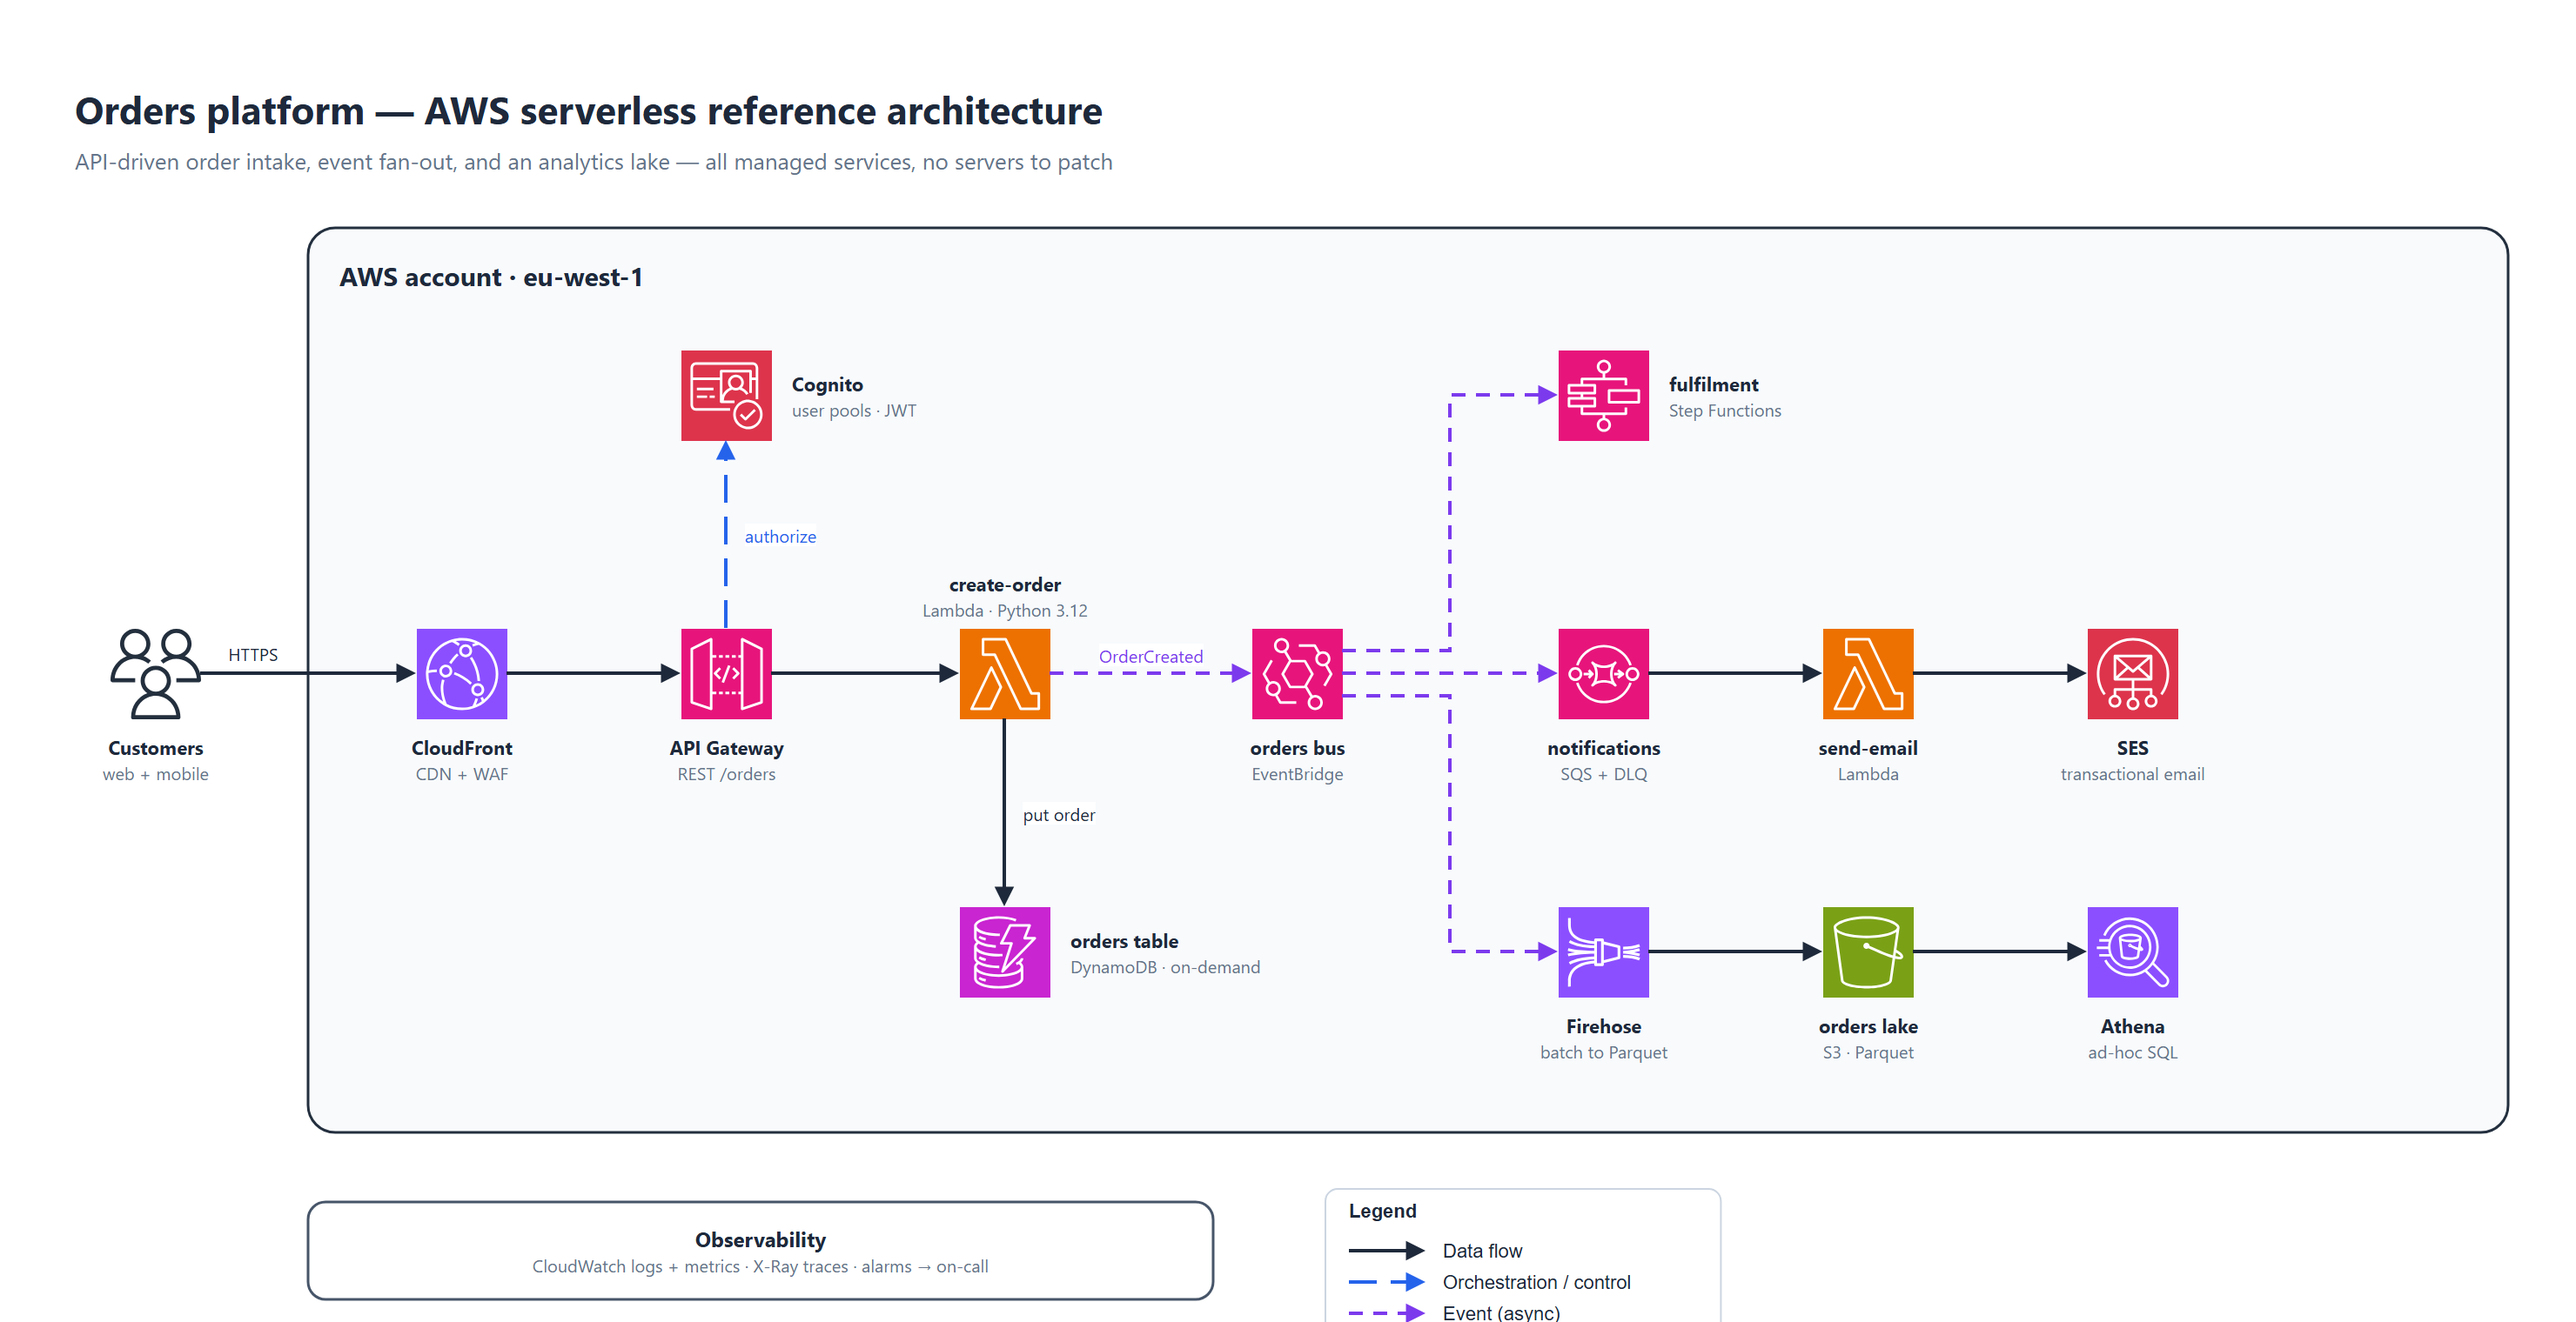
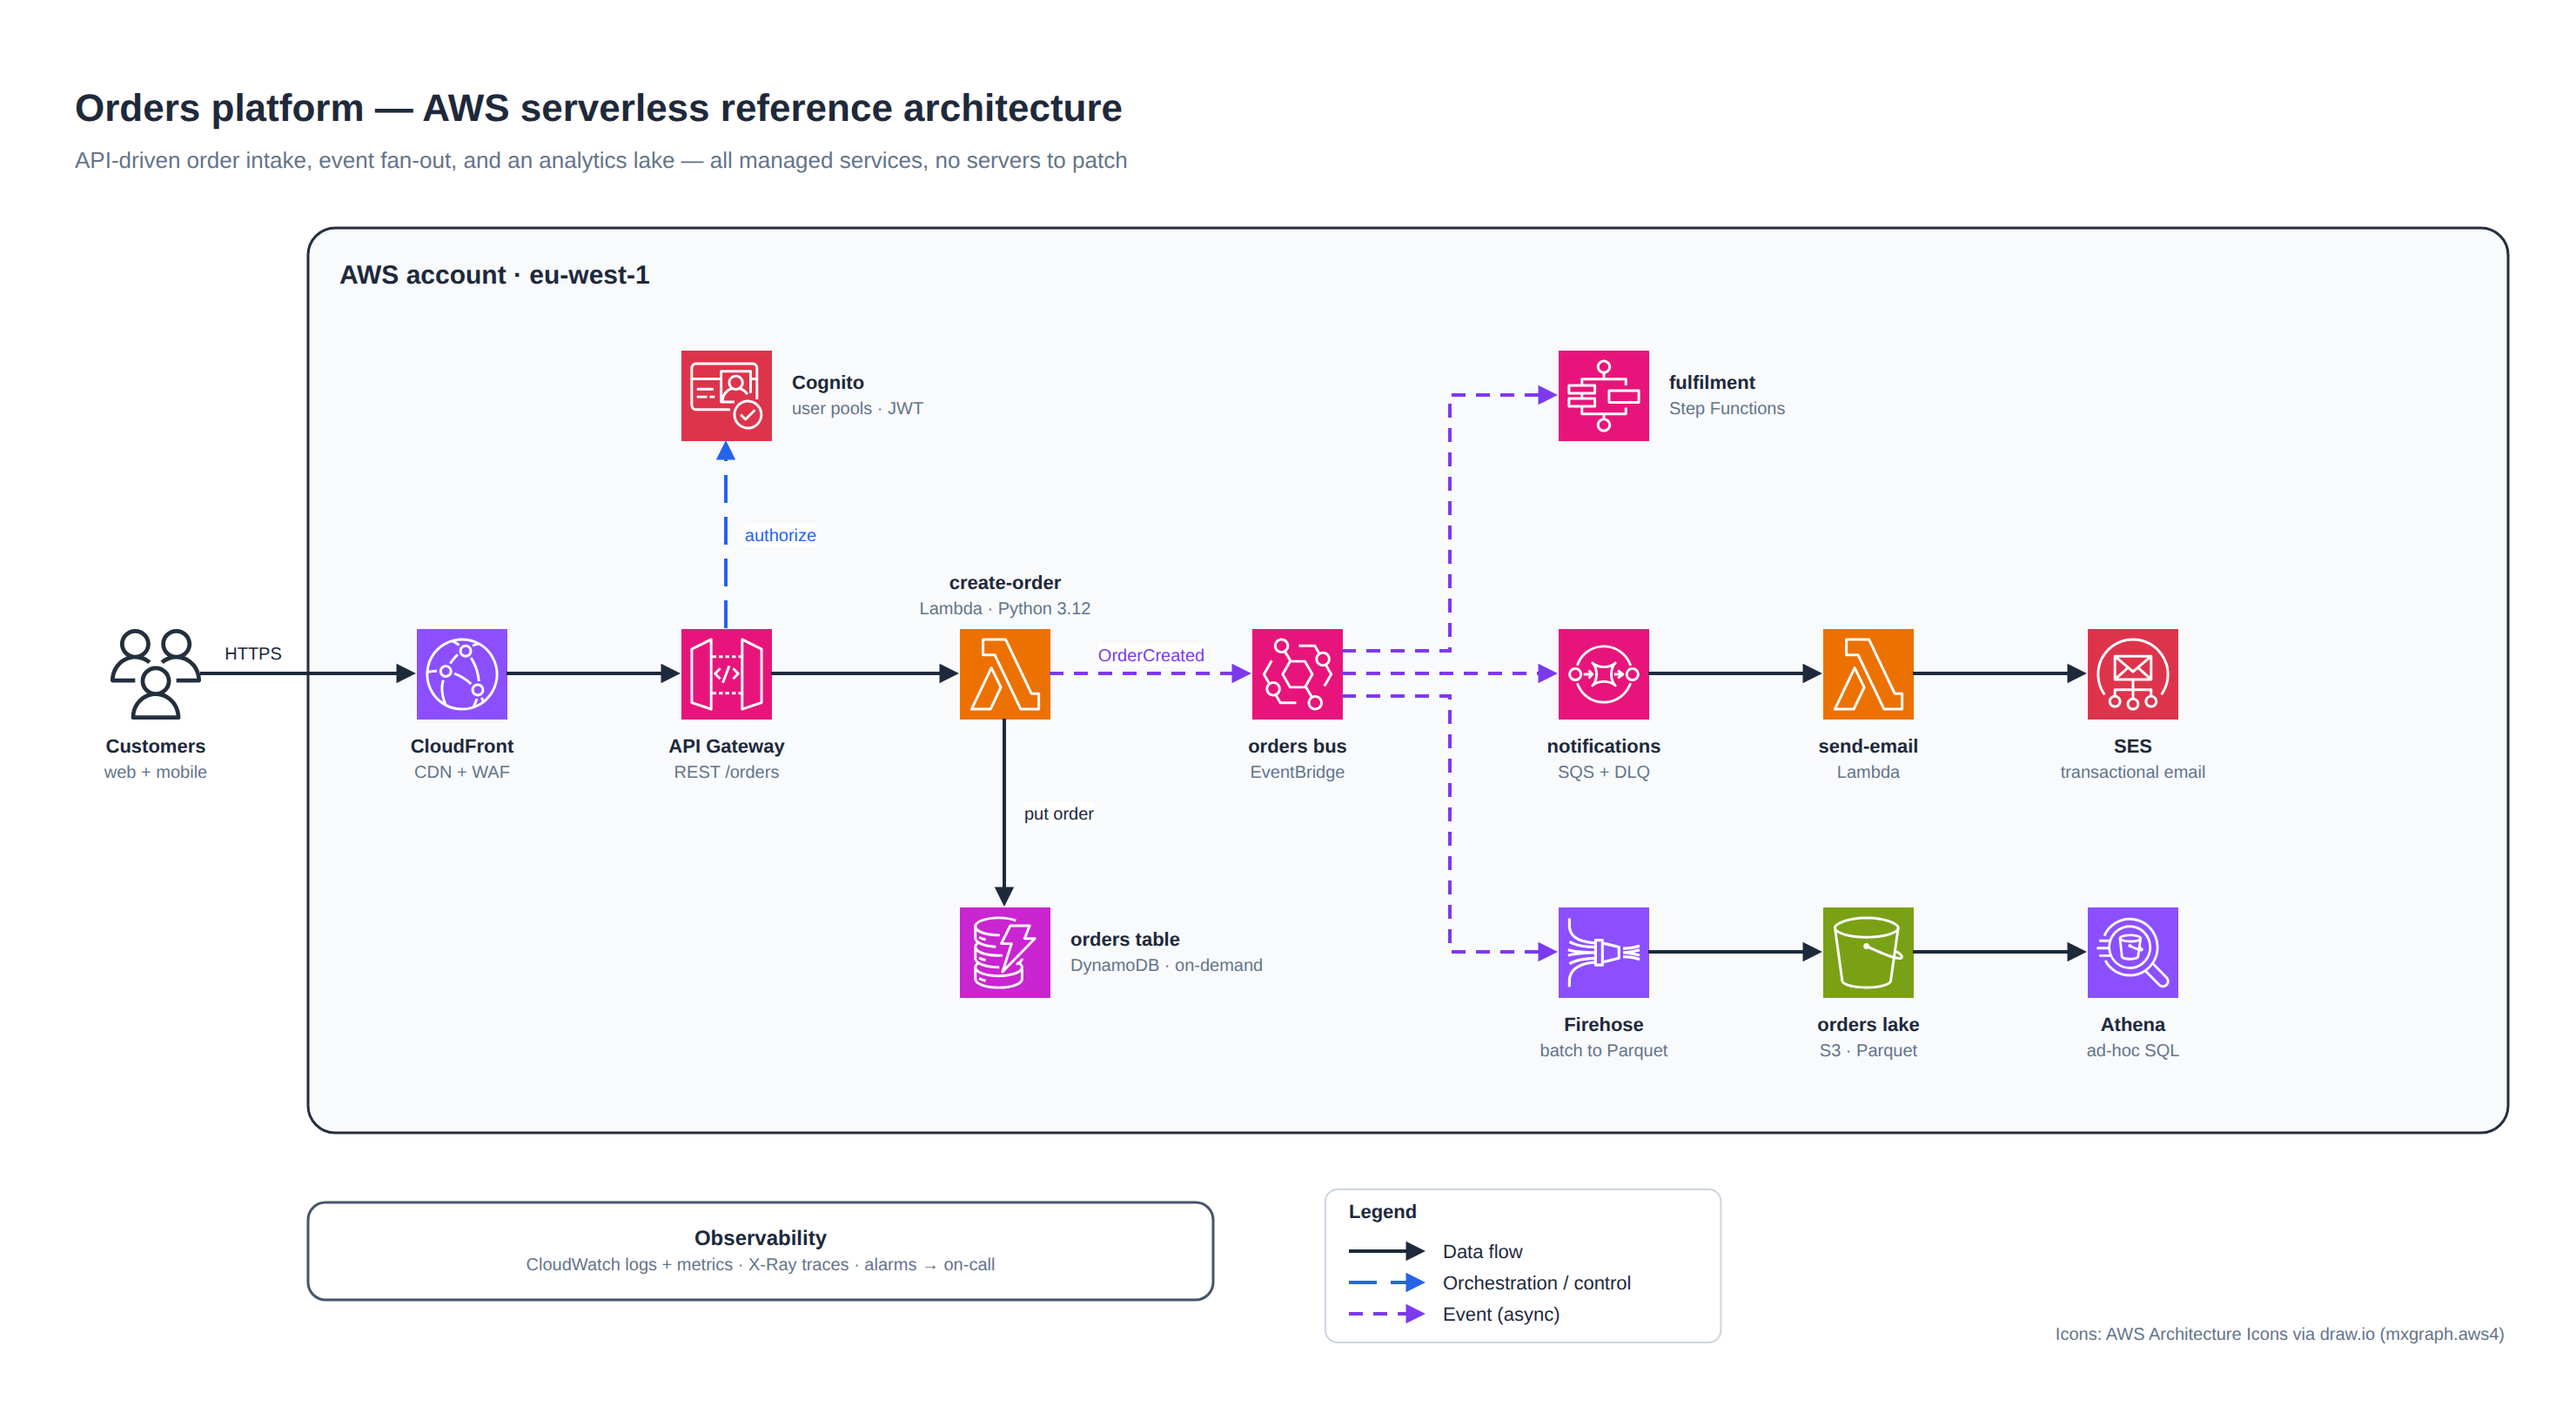
Rewrite README, add Kubernetes example, fix PNG rendering
- README: shorter pitch, quick start up front, extra install options folded
  away, AWS diagram as the hero image, accurate requirements
- New examples/kubernetes-app.yaml (GitOps web shop) and its gallery image,
  replacing the Fabric image in the gallery
- render.py: capture extra height so the draw.io viewer no longer crops the
  legend and credits off the bottom of PNGs
- archdiagram.py: write the full font stack to .drawio files so non-Windows
  systems fall back to sans-serif instead of serif
- Re-render aws-serverless.png with both fixes

diff --git a/skills/architecture-diagrams/scripts/render.py b/skills/architecture-diagrams/scripts/render.py
@@ -104,7 +104,9 @@ def render_drawio(src: Path, out: Path, scale: float, engine: str) -> None:
     with tempfile.TemporaryDirectory(prefix="archdiagram-page-") as tmp:
         page_file = Path(tmp) / "view.html"
         page_file.write_text(page, encoding="utf-8")
-        screenshot(page_file.as_uri(), out, w, h, scale, wait_ms=20000)
+        # The viewer draws the diagram ~24 px lower than its page origin; give it headroom so the
+        # bottom row (legend, credits) is not cropped.
+        screenshot(page_file.as_uri(), out, w, h + 48, scale, wait_ms=20000)
     print(f"rendered with draw.io viewer -> {out}")
 
 

diff --git a/skills/architecture-diagrams/scripts/archdiagram.py b/skills/architecture-diagrams/scripts/archdiagram.py
@@ -422,7 +422,7 @@ class Diagram:
     # ----------------------------------------------------------------------- draw.io
     def to_drawio(self) -> str:
         t = self.theme
-        font = t["font"].split(",")[0]
+        font = t["font"]  # full stack, so systems without the first font fall back to sans-serif, not serif
         common = f"html=1;whiteSpace=wrap;fontFamily={font};"
         # invisible, locked canvas frame: keeps margins when draw.io crops exports/viewers to content bounds
         cells = [f'<mxCell id="_canvas" value="" style="rounded=0;fillColor=none;strokeColor=none;locked=1;selectable=0;" '

diff --git a/README.md b/README.md
@@ -1,82 +1,100 @@
-# architecture-diagrams — an agent skill
+# Architecture Diagrams
 
-Teach your AI coding agent to draw **professional architecture diagrams with real vendor icons**: AWS, Azure,
-Google Cloud, Kubernetes, Microsoft Fabric / Power BI, and 3,000+ SaaS and open-source logos. Every diagram
-comes out as an **editable draw.io file** plus an **SVG or PNG** ready for your README, docs or slides.
+**An agent skill that makes your coding agent draw architecture diagrams you'd actually put in a README.**
 
-![Microsoft Fabric medallion lakehouse](docs/gallery/fabric-medallion.svg)
+Ask in plain words and get a clean diagram with real AWS, Azure, Google Cloud, Kubernetes, Microsoft Fabric
+and SaaS icons. You get an editable **draw.io** file plus an **SVG or PNG** ready for docs and slides.
 
-Most agents produce diagrams with guessed icon names, overlapping labels and spaghetti arrows. This skill
-fixes that with four things:
+Works with Claude Code, Codex, Cursor, GitHub Copilot, Gemini CLI, OpenCode, Windsurf and other agents
+that support skills.
 
-- **Real icons, never guessed.** It looks every icon up in a catalog, and an icon that doesn't exist fails
-  loudly. The catalogs include 952 AWS, 363 GCP and 78 Kubernetes icons, 1,746 draw.io SVGs (all Azure, IBM and
-  SAP icons among them), the Microsoft Fabric pack and Simple Icons brand logos.
-- **A planned layout.** One straight main flow, with control above and operations below, nested boundaries and
-  an 8 px grid. It follows written design rules, not an auto-layout guess.
-- **Automatic layout checks.** The checks catch overlaps, lines cutting through captions, labels on borders,
-  crossing lines, cramped arrowheads and text that doesn't fit.
-- **Render and look.** The agent renders a PNG and reviews it before handing the diagram over.
+![AWS serverless reference architecture, drawn by the skill](docs/gallery/aws-serverless.png)
 
-| AWS (native draw.io stencils) | Azure (embedded SVG icons) |
-|---|---|
-| ![AWS serverless](docs/gallery/aws-serverless.png) | ![Azure web app](docs/gallery/azure-web-app.svg) |
+## Why
 
-## Install
+Ask an agent for an architecture diagram without this skill and you usually get guessed icon names, labels
+on top of each other and arrows going everywhere. This skill gives it a method:
 
-### Claude Code
+- **Real icons, never guessed.** Every icon is looked up in a catalog, and a missing icon fails loudly
+  instead of turning into a blank box. 952 AWS, 363 GCP and 78 Kubernetes icons, all of Azure, IBM and SAP,
+  the Microsoft Fabric pack and 3,000+ brand logos.
+- **A planned layout.** One clear main flow, control above, operations below, nested boundaries, all on
+  an 8 px grid. The agent follows written design rules instead of hoping an auto-layout works out.
+- **Automatic checks.** Overlaps, lines through captions, labels on borders, crossing lines, cramped
+  arrowheads and text that doesn't fit are all caught before you see the diagram.
+- **The agent looks at it.** It renders a PNG and reviews it before handing the diagram over.
+
+## Quick start
+
+**Claude Code**
 
 ```bash
 claude plugin marketplace add manaf-dev/architect-diagrams
 claude plugin install architecture-diagrams@manaf-dev-skills
 ```
 
-Inside a Claude Code session, use `/plugin marketplace add manaf-dev/architect-diagrams`, then
-`/plugin install architecture-diagrams@manaf-dev-skills`. Claude Code v2.1.275 and later can do it in one step:
-`/plugin install architecture-diagrams --marketplace manaf-dev/architect-diagrams`.
-
-To update, run `claude plugin marketplace update manaf-dev-skills` and then
-`claude plugin update architecture-diagrams@manaf-dev-skills`.
-
-### Codex, Cursor, GitHub Copilot, Gemini CLI, OpenCode, Windsurf and others
+**Codex, Cursor, Copilot, Gemini CLI, OpenCode, Windsurf and others**
 
 ```bash
-npx skills add manaf-dev/architect-diagrams          # choose agents interactively
-npx skills add manaf-dev/architect-diagrams -g       # install for all your projects
-npx skills add manaf-dev/architect-diagrams -a codex # target one agent
+npx skills add manaf-dev/architect-diagrams
 ```
 
-### claude.ai / Claude desktop
-
-Go to **Customize → Plugins → Add → Add marketplace** and enter `manaf-dev/architect-diagrams`. The skill's
-guidance works there too. Its scripts need an agent that can run Python, such as Claude Code or the agents above.
-
-### Manual
-
-Copy `skills/architecture-diagrams/` into your agent's skills folder, for example `~/.claude/skills/` for
-Claude Code or `~/.agents/skills/` for Codex.
-
-## Use
-
-Ask in plain words. The skill triggers on architecture-diagram requests:
+Then ask:
 
 > "Draw the architecture of this repo for the README, with real Azure icons."
+
+<details>
+<summary>More install options</summary>
+
+**Inside a Claude Code session:** `/plugin marketplace add manaf-dev/architect-diagrams`, then
+`/plugin install architecture-diagrams@manaf-dev-skills`. Claude Code v2.1.275 and later can do both in one
+step: `/plugin install architecture-diagrams --marketplace manaf-dev/architect-diagrams`.
+
+**Update in Claude Code:** `claude plugin marketplace update manaf-dev-skills`, then
+`claude plugin update architecture-diagrams@manaf-dev-skills`.
+
+**`npx skills` options:** add `-g` to install for all your projects, or `-a codex` to target one agent.
+
+**claude.ai / Claude desktop:** go to **Customize → Plugins → Add → Add marketplace** and enter
+`manaf-dev/architect-diagrams`. The design guidance works there, but the scripts need an agent that can run
+Python, such as Claude Code.
+
+**Manual:** copy `skills/architecture-diagrams/` into your agent's skills folder, for example
+`~/.claude/skills/` for Claude Code or `~/.agents/skills/` for Codex.
+
+</details>
+
+## Gallery
+
+| Kubernetes with GitOps (native stencils + brand logos) | Azure web app (embedded SVG icons) |
+|---|---|
+| ![Kubernetes web shop with GitOps](docs/gallery/kubernetes-app.png) | ![Azure web app](docs/gallery/azure-web-app.svg) |
+
+The specs behind every gallery image are in
+[`skills/architecture-diagrams/examples/`](skills/architecture-diagrams/examples/).
+
+## What to ask for
+
+The skill triggers on any architecture-diagram request. Some examples:
+
+> "Make a reference architecture: API Gateway → Lambda → DynamoDB, with EventBridge fan-out to SQS and Step Functions."
 >
-> "Make a reference architecture: API Gateway → Lambda → DynamoDB, EventBridge fan-out to SQS and Step Functions."
+> "Diagram our data platform: Fabric notebooks, a pipeline, a Direct Lake semantic model and a Power BI report."
 >
-> "Diagram our Fabric medallion pipeline: notebooks, pipeline, Direct Lake semantic model, Power BI report."
+> "Read the Terraform in `infra/` and draw what it deploys."
 
 In Claude Code you can also call it directly with `/architecture-diagrams:architecture-diagrams`.
 
-The agent then:
-1. models your system, reading your IaC or code when it's available;
-2. resolves every icon;
-3. plans the grid and writes a short layout spec;
-4. builds and lints the diagram;
-5. renders it and looks at it;
-6. delivers `name.drawio` plus `name.svg` or `name.png`, keeping the spec so later edits are easy.
+## How it works
 
-The scripts also work by hand:
+1. **Model the system.** Components, boundaries and flows, read from your IaC or code when it's there.
+2. **Resolve every icon** from the bundled catalogs.
+3. **Plan the grid** and write a short YAML layout spec.
+4. **Build and lint** the diagram.
+5. **Render and look** at a PNG, then fix what's off.
+6. **Deliver** `name.drawio` plus `name.svg` or `name.png`. The spec is kept, so later edits are quick.
+
+You can run the scripts yourself too:
 
 ```bash
 python skills/architecture-diagrams/scripts/icons.py search "api gateway" --set aws4
@@ -86,15 +104,17 @@ python skills/architecture-diagrams/scripts/render.py docs/architecture/my-arch.
 
 ## Requirements
 
-- **Python 3.10+.** Add PyYAML (`pip install pyyaml`) for YAML specs; JSON specs need nothing extra.
-- **Edge, Chrome or Chromium** for PNG previews.
-- **For native AWS and Kubernetes stencils:** draw.io Desktop (offline), or internet access so draw.io's
-  viewer script can render them.
+- **Python 3.10+.** YAML specs need PyYAML (`pip install pyyaml`); JSON specs need nothing extra.
+- **Chrome, Edge or Chromium** for PNG previews.
+- **Internet access while building.** Icons are downloaded the first time they're used, then cached.
+  Finished files have the icons embedded, except native AWS and Kubernetes stencils (next point).
+- **Native AWS and Kubernetes stencils** also need draw.io Desktop or internet access, so draw.io's viewer
+  can render them.
 
 ## Licence and credits
 
-The skill and its code are MIT-licensed. The icons and icon catalogs belong to their owners and keep their own
-terms: AWS, Microsoft, Google, the Kubernetes authors, draw.io (Apache-2.0), Simple Icons (CC0) and the
-[Microsoft Fabric icon pack](https://github.com/astrzala/FabricToolset) (MIT). See
-[THIRD_PARTY_NOTICES.md](THIRD_PARTY_NOTICES.md). Vendor icons may be used to depict those vendors' services
+The skill and its code are [MIT-licensed](LICENSE). Icons and icon catalogs belong to their owners and keep
+their own terms: AWS, Microsoft, Google, the Kubernetes authors, draw.io (Apache-2.0), Simple Icons (CC0)
+and the [Microsoft Fabric icon pack](https://github.com/astrzala/FabricToolset) (MIT). See
+[THIRD_PARTY_NOTICES.md](THIRD_PARTY_NOTICES.md). Vendor icons may be used to show those vendors' services
 in architecture diagrams. Don't modify them or imply endorsement.

diff --git a/skills/architecture-diagrams/SKILL.md b/skills/architecture-diagrams/SKILL.md
@@ -81,7 +81,8 @@ Sketch the grid (columns x-positions, row y-positions) before writing coordinate
 
 YAML or JSON; full schema in `references/spec-format.md`. Start from the closest example:
 `examples/fabric-medallion.yaml` (nested boundaries, medallion zones, orchestration band, Git/CI band),
-`examples/aws-serverless.yaml` (native stencils, event fan-out, analytics lane) or
+`examples/aws-serverless.yaml` (native stencils, event fan-out, analytics lane),
+`examples/kubernetes-app.yaml` (cluster + namespaces, control row, ops namespaces, GitOps from outside) or
 `examples/azure-web-app.yaml` (identity, edge/WAF, secrets, telemetry and CI/CD around one busy main row).
 
 Element types: `group` (boundary), `zone` (layer card with header/items/footer), `icon`, `box`, `text`.
